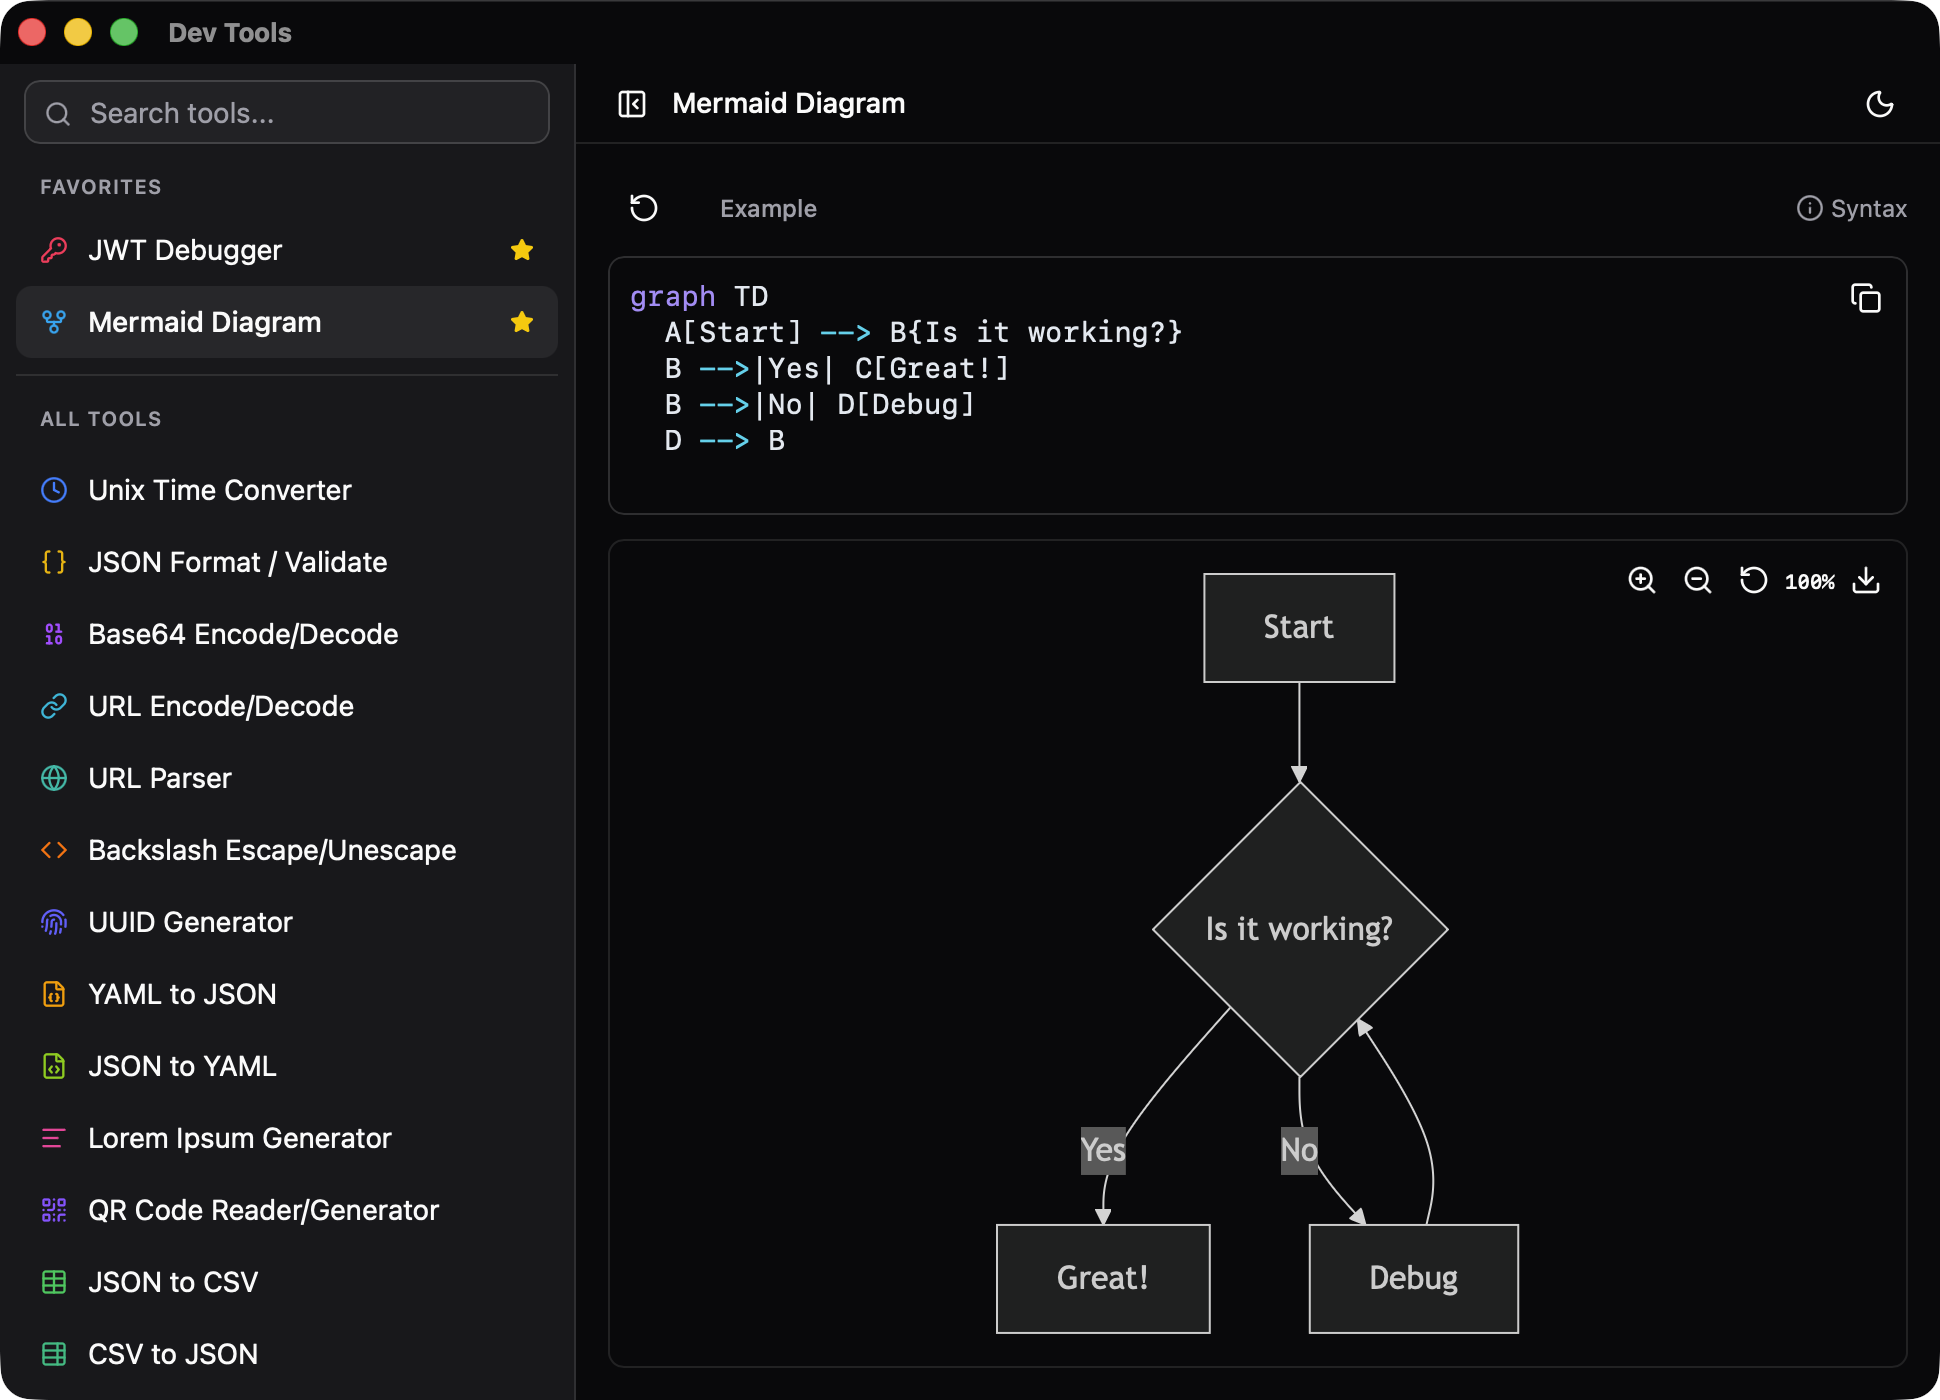
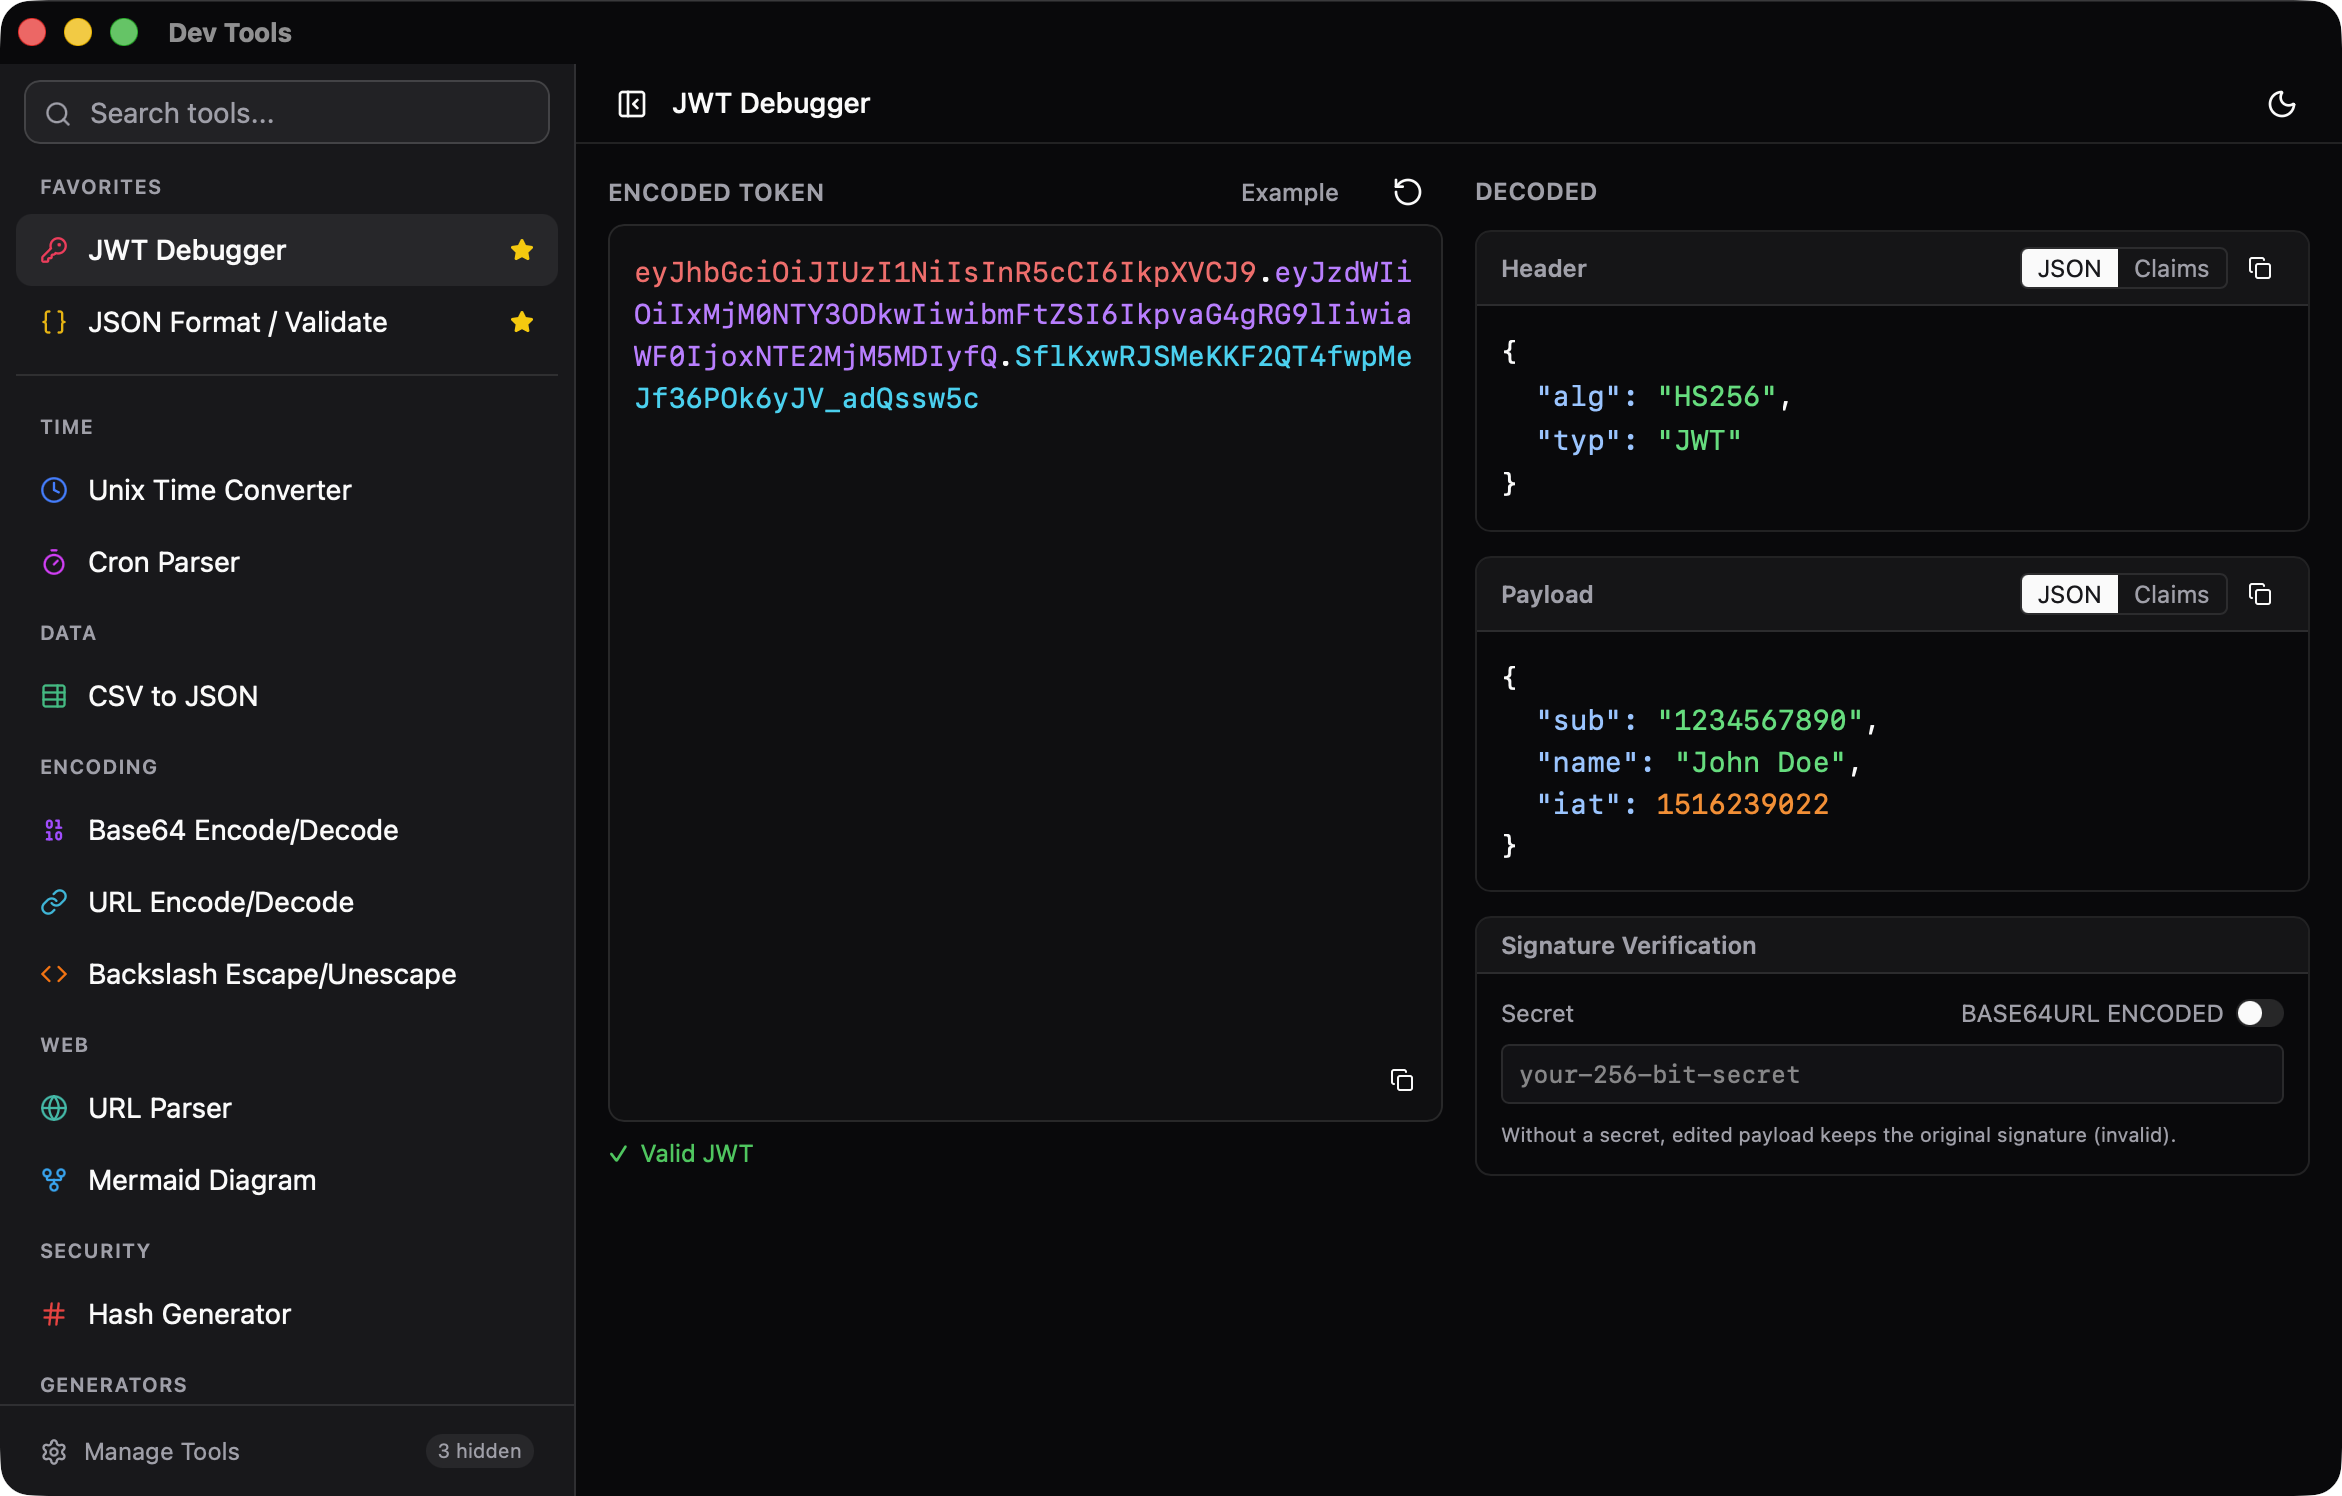
doc: update screenshot

diff --git a/README.md b/README.md
@@ -2,7 +2,7 @@
 
 A cross-platform desktop app with 18 offline-first developer utilities. Built with Tauri v2, React, and TypeScript.
 
-![Dev Tools screenshot](public/screenshot.png)
+![Dev Tools screenshot](public/screenshot.png#123)
 
 ## Tools
 